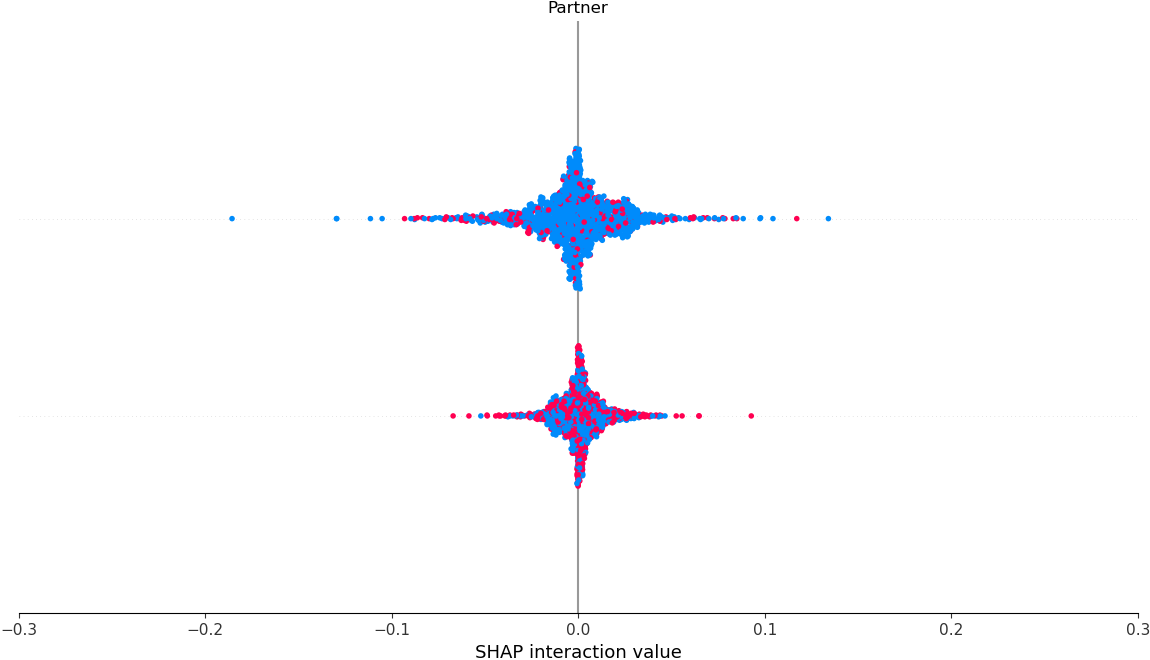
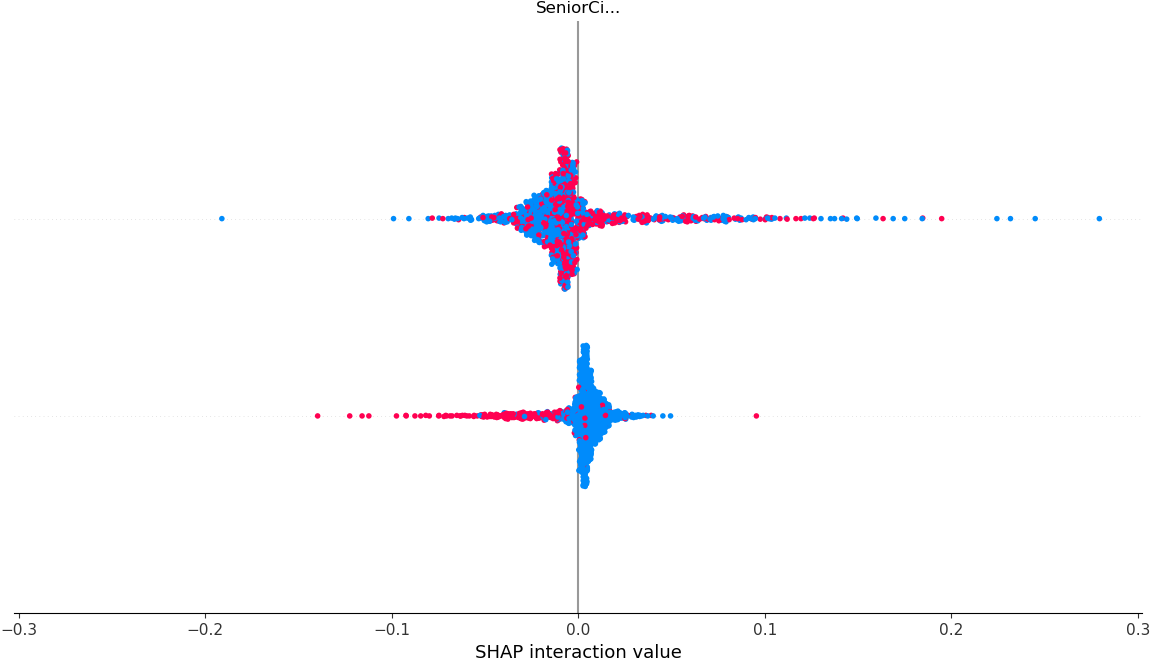
Gradio Frontend

Changed region(s): [[0.3348, 0.2121, 0.7913, 0.4545], [0.3043, 0.5152, 0.6087, 0.7576], [0.4565, 0.0, 0.5478, 0.0303]]

diff --git a/frontend.py b/frontend.py
@@ -1,2 +1,107 @@
 import gradio as gr
-from main import 
+import main
+import numpy as np
+import pandas as pd
+from main import clf_rf, clf_log, accuracy_score_rf, accuracy_score_lr, breier_score_rf, breier_score_lr, roc_rf, roc_lr
+
+def eda(Graphs):
+    match Graphs:
+        case "Customer Churn":
+            return gr.Image("graphs/EDAGraphs/Churn.png")
+        case "Contract":
+            return gr.Image("graphs/EDAGraphs/Contract.png")
+        case "Dependents":
+            return gr.Image("graphs/EDAGraphs/Dependents.png")
+        case "Device Protection":
+            return gr.Image("graphs/EDAGraphs/DeviceProtection.png")
+        case "Heatmap":
+            return gr.Image("graphs/EDAGraphs/Heatmap.png")
+        case "Monthly Charges":
+            return gr.Image("graphs/EDAGraphs/MonthlyCharges.png")
+        case "Online Backup":
+            return gr.Image("graphs/EDAGraphs/OnlineBackup.png")
+        case "Online Security":
+            return gr.Image("graphs/EDAGraphs/OnlineSecurity.png")
+        case "Paperless Billing":
+            return gr.Image("graphs/EDAGraphs/PaperlessBilling.png")
+        case "Partner":
+            return gr.Image("graphs/EDAGraphs/Partner.png")
+        case "Payment Method":
+            return gr.Image("graphs/EDAGraphs/PaymentMethod.png")
+        case "Senior Citizen":
+            return gr.Image("graphs/EDAGraphs/SeniorCitizen.png")
+        case "Tech Support":
+            return gr.Image("graphs/EDAGraphs/TechSupport.png")
+        case "Tenure":
+            return gr.Image("graphs/EDAGraphs/tenure.png")
+
+def result(Graphs):
+    match Graphs:
+        case "Correlation":
+            inf = "Enter inference here"
+            return [gr.Image("graphs/EDAGraphs/Correlation.png"), inf]
+        case "Confusion Matrix for Random Forest":
+            inf = "Enter inference here"
+            return [gr.Image("graphs/OutputGraphs/ConfusionMatrixRandomForest.png"), inf]
+        case "Confusion Matrix for Logistic regression":
+            inf = "Enter inference here"
+            return [gr.Image("graphs/OutputGraphs/ConfusionMatrixLogistic.png"), inf]
+        case "SHAP analysis for Random Forest":
+            inf = "Enter inference here"
+            return [gr.Image("graphs/OutputGraphs/SHAP_RandomForest_Summary.png"), inf]
+        case "SHAP analysis for Logistic Regression":
+            inf = "Enter inference here"
+            return [gr.Image("graphs/OutputGraphs/SHAP_Logistic_Summary.png"), inf]
+
+def metrics(Algorithms):
+    match Algorithms:
+        case "Random Forest":
+            df = pd.DataFrame(clf_rf)
+            df = df.drop(columns = ['accuracy', 'macro avg', 'weighted avg']).T
+            df = df.reset_index().rename(columns={'index': 'class'})
+            df_clf = gr.DataFrame(
+                value = df
+            )
+            df_acc = gr.DataFrame(
+                headers = ['Accuracy Score', 'Breier Score', 'ROC Score'],
+                value = [list([accuracy_score_rf, breier_score_rf, roc_rf])],
+            )
+            return df_clf, df_acc
+        
+        case "Logistic Regression":
+            df = pd.DataFrame(clf_log)
+            df = df.drop(columns = ['accuracy', 'macro avg', 'weighted avg']).T
+            df = df.reset_index().rename(columns={'index': 'class'})
+            df_clf = gr.DataFrame(
+                value = df
+            )
+            df_acc = gr.DataFrame(
+                headers = ['Accuracy Score', 'Breier Score', 'ROC Score'],
+                value = [list([accuracy_score_lr, breier_score_lr, roc_lr])],
+            )
+            return df_clf, df_acc
+
+with gr.Blocks() as Output:
+    gr.Markdown("View Exploratory data Analysis and Output")
+    with gr.Tab("EDA Graphs"):
+        eda_input = gr.Radio(["Customer Churn", "Contract", "Dependents", "Device Protection", "Heatmap", "Monthly Charges", "Online Backup", "Online Security", "Paperless Billing", "Partner", "Payment Method", "Senior Citizen", "Tech Support", "Tenure"], show_label= False)
+        eda_output = gr.Image()
+
+        eda_input.change(fn = eda, inputs= eda_input, outputs= eda_output)
+
+    with gr.Tab("Output Graphs"):
+        result_input = gr.Radio(["Correlation", "Confusion Matrix for Random Forest", "Confusion Matrix for Logistic regression", "SHAP analysis for Random Forest", "SHAP analysis for Logistic Regression"], show_label = False)
+
+        result_output = [gr.Image(), gr.Label()]
+
+        result_input.change(fn = result, inputs=result_input, outputs = result_output)
+
+    with gr.Tab("Performance Metrics"):
+        algorithm = gr.Radio(["Random Forest", "Logistic Regression"], show_label= False)
+
+        metrics_output = [gr.DataFrame(), gr.DataFrame()]
+
+        algorithm.change(fn = metrics, inputs = algorithm, outputs = metrics_output)
+
+
+Output.launch()

diff --git a/main.py b/main.py
@@ -62,6 +62,7 @@ y_rf_pred = rf_clf.predict(X_test)
 # Evaluating Random Forest 
 print("\n\t\t\tRandom Forest Classifier:\n")
 print("Classification Report for Random Forest:")
+clf_rf = classification_report(y_test, y_rf_pred, output_dict= True)
 print(classification_report(y_test, y_rf_pred))
 
 cm = confusion_matrix(y_test, y_rf_pred)
@@ -70,12 +71,16 @@ display = ConfusionMatrixDisplay(confusion_matrix=cm, display_labels=rf_clf.clas
 display.plot(cmap=plt.cm.Blues)
 plt.savefig("graphs/OutputGraphs/ConfusionMatrixRandomForest.png")
 
+breier_score_rf = brier_score_loss(y_test, y_rf_pred)
+accuracy_score_rf = accuracy_score(y_test, y_rf_pred)
+roc_rf = roc_auc_score(y_test, y_rf_pred)
+
 print("Brier Score Loss:")
-print(brier_score_loss(y_test, y_rf_pred))
+print(breier_score_rf)
 print("Accuracy Score:")
-print(accuracy_score(y_test, y_rf_pred))
+print(accuracy_score_rf)
 print("ROC AUC Score:")
-print(roc_auc_score(y_test, y_rf_pred))
+print(roc_rf)
 
 
 explainer = shap.TreeExplainer(rf_clf)
@@ -94,6 +99,7 @@ y_log_pred = logistic.predict(X_test)
 # Evaluating logistic
 print("\t\t\tLogistic Regression:\n")
 print("Classification Report for Logistic Regression:")
+clf_log = classification_report(y_test, y_log_pred, output_dict= True)
 print(classification_report(y_test, y_log_pred))
 
 cm = confusion_matrix(y_test, y_log_pred)
@@ -102,12 +108,16 @@ display = ConfusionMatrixDisplay(confusion_matrix=cm, display_labels=logistic.cl
 display.plot(cmap=plt.cm.Blues)
 plt.savefig("graphs/OutputGraphs/ConfusionMatrixLogistic.png")
 
+breier_score_lr = brier_score_loss(y_test, y_log_pred)
+accuracy_score_lr = accuracy_score(y_test, y_log_pred)
+roc_lr = roc_auc_score(y_test, y_log_pred)
+
 print("Brier Score Loss:")
-print(brier_score_loss(y_test, y_log_pred))
+print(breier_score_lr)
 print("Accuracy Score:")
-print(accuracy_score(y_test, y_log_pred))
+print(accuracy_score_lr)
 print("ROC AUC Score:")
-print(roc_auc_score(y_test, y_log_pred))
+print(roc_lr)
 
 # SHAP Analysis for logistic regression
 explainer = shap.LinearExplainer(logistic, X_train)
